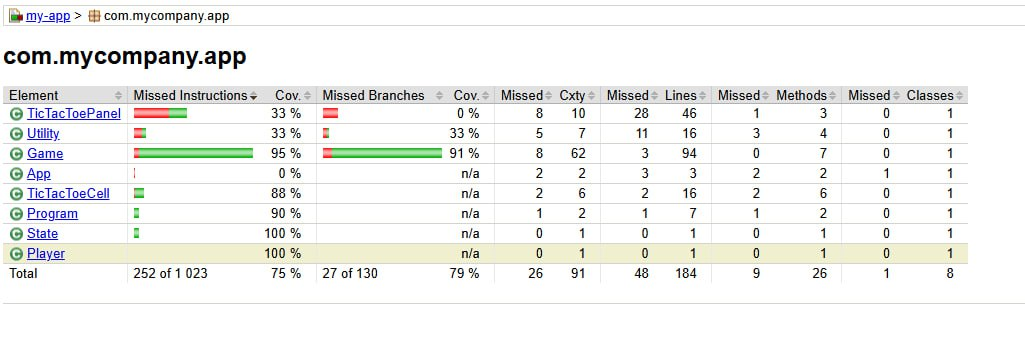
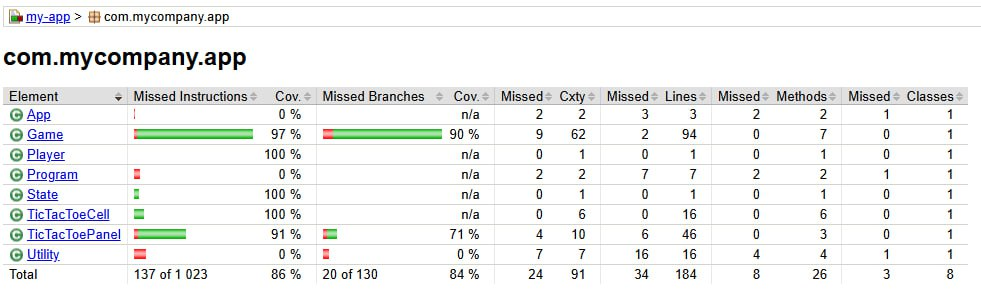
fix

Changed region(s): [[0.0, 0.1208, 1.0, 0.9362], [0.0, 0.0, 1.0, 0.0906]]

diff --git a/my-app/src/test/java/com/mycompany/app/AppTest.java b/my-app/src/test/java/com/mycompany/app/AppTest.java
@@ -7,206 +7,117 @@ import java.io.*;
 import javax.swing.*;
 import java.awt.Component;
 import java.lang.reflect.Field;
+import java.awt.GridLayout;
+import java.awt.event.ActionEvent;
+
 
 class AppTests {
 
-    Game game;
-
-    @BeforeEach
-    void setup() {
-        game = new Game();
+    @Test
+    void playerInitialization() {
+        Player player = new Player();
+        assertFalse(player.selected);
+        assertFalse(player.win);
+        assertEquals(0, player.move);
+        assertEquals('\u0000', player.symbol);
     }
 
-    @Nested
-    class CheckStateTests {
-        @Test
-        void testXWinRow() {
-            char[] board = {'X','X','X',' ',' ',' ',' ',' ',' '};
-            game.symbol = 'X';
-            assertEquals(State.XWIN, game.checkState(board));
-        }
-
-        @Test
-        void testOWinColumn() {
-            char[] board = {'O',' ',' ','O',' ',' ','O',' ',' '};
-            game.symbol = 'O';
-            assertEquals(State.OWIN, game.checkState(board));
-        }
-
-        @Test
-        void testDraw() {
-            char[] board = {'X','O','X','X','O','O','O','X','X'};
-            game.symbol = 'X';
-            assertEquals(State.DRAW, game.checkState(board));
-        }
-
-        @Test
-        void testPlaying() {
-            char[] board = {'X','O',' ',' ',' ',' ',' ',' ',' '};
-            game.symbol = 'O';
-            assertEquals(State.PLAYING, game.checkState(board));
-        }
-
-        @Test
-        void testXWinDiagonal1() {
-            char[] board = {'X',' ',' ',' ','X',' ',' ',' ','X'};
-            game.symbol = 'X';
-            assertEquals(State.XWIN, game.checkState(board));
-        }
-
-        @Test
-        void testOWinDiagonal2() {
-            char[] board = {' ',' ','O',' ','O',' ','O',' ',' '};
-            game.symbol = 'O';
-            assertEquals(State.OWIN, game.checkState(board));
-        }
-
-        @Test
-        void testDrawFullBoard() {
-            char[] board = {'X','O','X','O','X','O','O','X','O'};
-            game.symbol = 'X';
-            assertEquals(State.DRAW, game.checkState(board));
-        }
+    @Test
+    void cellProperties() {
+        TicTacToeCell cell = new TicTacToeCell(5, 1, 2);
+        assertEquals(5, cell.getNum());
+        assertEquals(1, cell.getCol());
+        assertEquals(2, cell.getRow());
+        assertEquals(' ', cell.getMarker());
     }
 
-
-    @Nested
-    class GenerateMovesTests {
-        @Test
-        void testGenerateMoves() {
-            char[] board = {'X',' ','O',' ','X',' ','O',' ',' '};
-            ArrayList<Integer> moves = new ArrayList<>();
-            game.generateMoves(board, moves);
-            assertTrue(moves.contains(1));
-            assertTrue(moves.contains(3));
-            assertEquals(5, moves.size());
-        }
-
-        @Test
-        void testGenerateMovesEmptyBoard() {
-            char[] board = {' ',' ',' ',' ',' ',' ',' ',' ',' '};
-            ArrayList<Integer> moves = new ArrayList<>();
-            game.generateMoves(board, moves);
-            assertEquals(9, moves.size());
-        }
-
-        @Test
-        void testGenerateMovesFullBoard() {
-            char[] board = {'X','O','X','O','X','O','O','X','O'};
-            ArrayList<Integer> moves = new ArrayList<>();
-            game.generateMoves(board, moves);
-            assertTrue(moves.isEmpty());
-        }
+    @Test
+    void setMarker() {
+        TicTacToeCell cell = new TicTacToeCell(0, 0, 0);
+        cell.setMarker("X");
+        assertEquals('X', cell.getMarker());
+        assertFalse(cell.isEnabled());
     }
 
-    @Nested
-    class EvaluatePositionTests {
+    @Test
+    void gameInitialization() {
+        Game game = new Game();
+        assertEquals(State.PLAYING, game.state);
+        assertArrayEquals(new char[]{' ', ' ', ' ', ' ', ' ', ' ', ' ', ' ', ' '}, game.board);
+        assertEquals('X', game.player1.symbol);
+        assertEquals('O', game.player2.symbol);
+    }
 
-        @Test
-        void testEvaluateDraw() {
-            char[] board = {'X','O','X','X','O','O','O','X','X'};
-            int val = game.evaluatePosition(board, game.player1);
-            assertEquals(0, val);
-        }
+    @Test
+    void checkState_WinX() {
+        Game game = new Game();
+        game.symbol = 'X';
+        char[] board = {'X','X','X',' ',' ',' ',' ',' ',' '};
+        assertEquals(State.XWIN, game.checkState(board));
+    }
 
-        @Test
-        void testEvaluateInProgress() {
-            char[] board = {'X','O',' ',' ',' ',' ',' ',' ',' '};
-            int val = game.evaluatePosition(board, game.player1);
-            assertEquals(-1, val);
+    @Test
+    void checkState_Draw() {
+        Game game = new Game();
+        game.symbol = 'X';
+        char[] board = {'X','O','X','X','O','O','O','X','X'};
+        assertEquals(State.DRAW, game.checkState(board));
+    }
+
+    @Test
+    void generateMoves() {
+        Game game = new Game();
+        ArrayList<Integer> moves = new ArrayList<>();
+        game.board = new char[]{'X', ' ', 'O', ' ', ' ', ' ', ' ', ' ', ' '};
+        game.generateMoves(game.board, moves);
+        assertArrayEquals(new Object[]{1, 3, 4, 5, 6, 7, 8}, moves.toArray());
+    }
+
+    @Test
+    void evaluatePosition_Win() {
+        Game game = new Game();
+        game.symbol = 'X';
+        char[] board = {'X','X','X',' ',' ',' ',' ',' ',' '};
+        assertEquals(Game.INF, game.evaluatePosition(board, game.player1));
+    }
+
+    @Test
+    void miniMax_BlockWin() {
+        Game game = new Game();
+        game.board = new char[]{'X','X',' ',' ','O',' ',' ',' ',' '};
+        game.player2.symbol = 'O';
+        int move = game.MiniMax(game.board, game.player2);
+        assertEquals(3, move);
+    }
+
+    @Test
+    void panelInitialization() {
+        TicTacToePanel panel = new TicTacToePanel(new GridLayout(3, 3));
+        assertEquals(9, panel.getComponentCount());
+        for (Component comp : panel.getComponents()) {
+            assertTrue(comp instanceof TicTacToeCell);
+            assertTrue(comp.isEnabled());
         }
     }
 
-    @Nested
-    class MiniMaxTests {
-        @Test
-        void testMiniMaxImmediateWin() {
-            char[] board = {'X','X',' ','O','O',' ',' ',' ',' '};
-            game.player1.symbol = 'X';
-            int move = game.MiniMax(board, game.player1);
-            assertEquals(3, move);
-        }
+    @Test
+    void actionPerformed_ComputerMove() {
+        TicTacToePanel panel = new TicTacToePanel(new GridLayout(3, 3));
+        TicTacToeCell cell = (TicTacToeCell) panel.getComponent(0);
 
-        @Test
-        void testMiniMaxBlockOpponent() {
-            char[] board = {'X','X',' ',' ','O',' ',' ',' ',' '};
-            game.player2.symbol = 'O';
-            int move = game.MiniMax(board, game.player2);
-            assertEquals(3, move);
-        }
+        ActionEvent event = new ActionEvent(cell, ActionEvent.ACTION_PERFORMED, "");
+        panel.actionPerformed(event);
 
-        @Test
-        void testMiniMaxPreventImmediateLoss() {
-            char[] board = {'O','O',' ','X','X',' ',' ',' ',' '};
-            game.player2.symbol = 'O';
-            int move = game.MiniMax(board, game.player2);
-            assertEquals(3, move);
-        }
-    }
-
-    @Nested
-    class UtilityPrintTests {
-        private final ByteArrayOutputStream outContent = new ByteArrayOutputStream();
-        private final PrintStream originalOut = System.out;
-
-        @BeforeEach
-        void setUpStreams() {
-            System.setOut(new PrintStream(outContent));
-        }
-
-        @AfterEach
-        void restoreStreams() {
-            System.setOut(originalOut);
-        }
-
-        @Test
-        void testPrintList() {
-            ArrayList<Integer> moves = new ArrayList<>();
-            moves.add(5);
-            moves.add(10);
-            Utility.print(moves);
-            assertTrue(outContent.toString().contains("5-10-"));
-        }
-    }
-
-    @Nested
-    class PanelAndProgramTests {
-        @Test
-        void testTicTacToePanelInit() throws Exception {
-            TicTacToePanel panel = new TicTacToePanel(new java.awt.GridLayout(3,3));
-            assertEquals(9, panel.getComponentCount());
-            for (Component comp : panel.getComponents()) {
-                assertTrue(comp instanceof TicTacToeCell);
-                TicTacToeCell cell = (TicTacToeCell) comp;
-                assertEquals(' ', cell.getMarker());
+        boolean computerPlayed = false;
+        for (Component comp : panel.getComponents()) {
+            TicTacToeCell c = (TicTacToeCell) comp;
+            if (c.getMarker() == 'O') {
+                computerPlayed = true;
+                break;
             }
-            Field gameField = TicTacToePanel.class.getDeclaredField("game");
-            gameField.setAccessible(true);
-            Game internalGame = (Game) gameField.get(panel);
-            assertEquals('X', internalGame.cplayer.symbol);
         }
-
-        @Test
-        void testProgramMainRuns() {
-            assertDoesNotThrow(() -> Program.main(new String[0]));
-        }
+        assertTrue(computerPlayed, "Компьютер должен сделать ответный ход");
     }
 
-    @Nested
-    class TicTacToeCellTests {
-        @Test
-        void testCellInitialization() {
-            TicTacToeCell cell = new TicTacToeCell(0, 0, 0);
-            assertEquals(' ', cell.getMarker());
-            assertEquals(0, cell.getNum());
-        }
 
-        @Test
-        void testCellMarkerUpdate() {
-            TicTacToeCell cell = new TicTacToeCell(0, 0, 0);
-            cell.setMarker("X");
-            assertEquals('X', cell.getMarker());
-            assertFalse(cell.isEnabled());
-        }
-    }
 }
